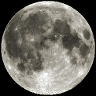
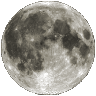
Lunar phases added (Moon support)
Phases are supported, darken side is black with opacity 75%.

REVIEW: 114722

Changed region(s): [[0.0, 0.0, 1.0, 1.0]]

diff --git a/src/plugins/render/stars/StarsPlugin.cpp b/src/plugins/render/stars/StarsPlugin.cpp
@@ -1386,16 +1386,54 @@ bool StarsPlugin::render( GeoPainter *painter, ViewportParams *viewport,
             qpos.rotateAroundAxis( skyAxisMatrix );
 
             if ( qpos.v[Q_Z] <= 0 ) {
-
                 // If zoom Sun and Moon is enabled size is multiplied by zoomCoefficient.
                 const int coefficient = m_zoomSunMoon ? m_zoomCoefficient : 1;
+
+                QPixmap moon = m_pixmapMoon.copy();
+
+                // Moon phases
+                qreal phase = 0.0, ildisk = 0.0, amag = 0.0;
+                sys.getLunarPhase(phase, ildisk, amag);
+
+                QPainterPath path;
+
+                QRectF fullMoonRect = moon.rect();
+                if (ildisk < 0.05) {
+                    // small enough, so it's not visible
+                    path.addEllipse(fullMoonRect);
+                } else if (ildisk < 0.95) { // makes sense to do smth
+                    QRectF halfEllipseRect;
+                    qreal ellipseWidth = 2 * qAbs(ildisk-0.5) * moon.width();
+                    halfEllipseRect.setX((fullMoonRect.width() - ellipseWidth) * 0.5);
+                    halfEllipseRect.setWidth(ellipseWidth);
+                    halfEllipseRect.setHeight(moon.height());
+
+                    if (ildisk < 0.5) {
+                        path.moveTo(fullMoonRect.width()/2, moon.height());
+                        path.arcTo(fullMoonRect, -90, 180);
+                        path.arcTo(halfEllipseRect, 90, 180);
+                    } else {
+                        path.moveTo(fullMoonRect.width()/2, 0);
+                        path.arcTo(fullMoonRect, 90, 180);
+                        path.arcTo(halfEllipseRect, -90, 180);
+                    }
+                    path.closeSubpath();
+                }
+
+                QPainter overlay;
+                overlay.begin(&moon);
+                overlay.setPen(Qt::NoPen);
+                overlay.setBrush(QBrush(QColor(0, 0, 0, 180)));
+                overlay.setRenderHint(QPainter::Antialiasing, true);
+                overlay.drawPath(path);
+                overlay.end();
 
                 const qreal size = skyRadius * qSin(sys.getDiamMoon()) * coefficient;
                 const qreal angle = marbleModel()->planet()->epsilon() * qCos(ra * DEG2RAD) * RAD2DEG;
 
                 QTransform form;
-                const qreal factor = size / m_pixmapMoon.size().width();
-                QPixmap moon = m_pixmapMoon.transformed(form.rotate(angle).scale(factor, factor),
+                const qreal factor = size / moon.size().width();
+                moon = moon.transformed(form.rotate(angle).scale(factor, factor),
                                                         Qt::SmoothTransformation);
 
                 qreal deltaX  = moon.width()  / 2.;
